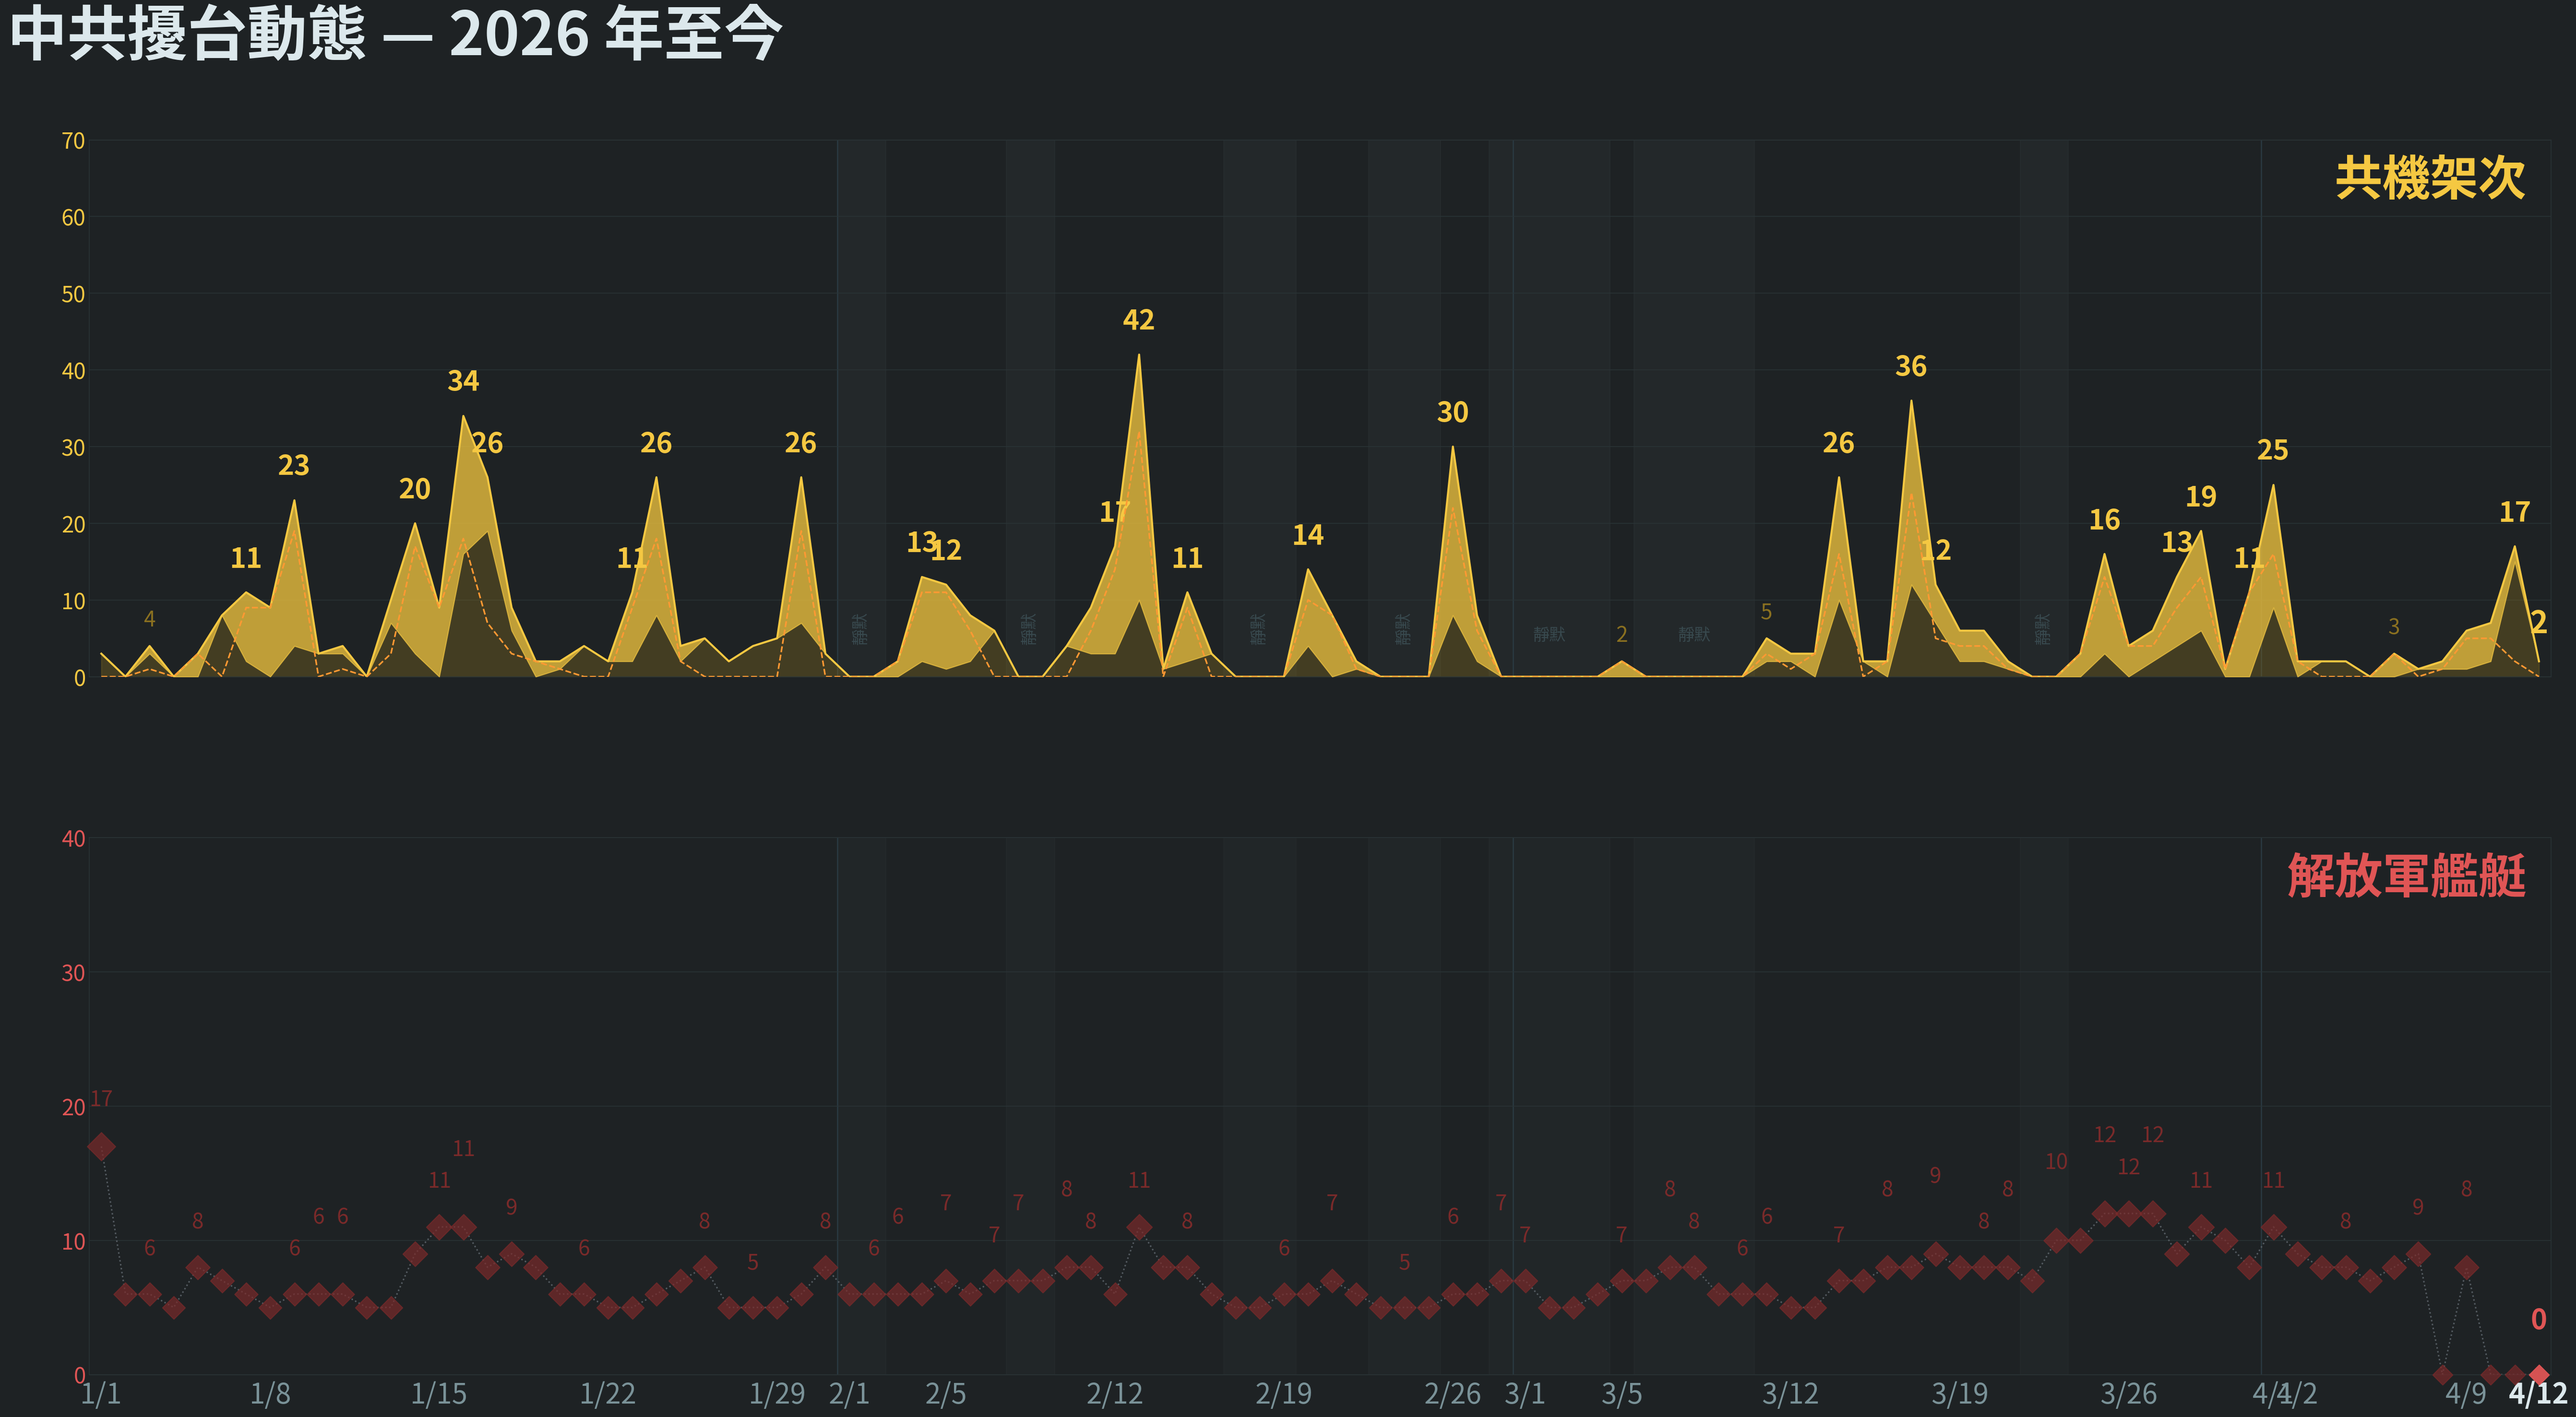
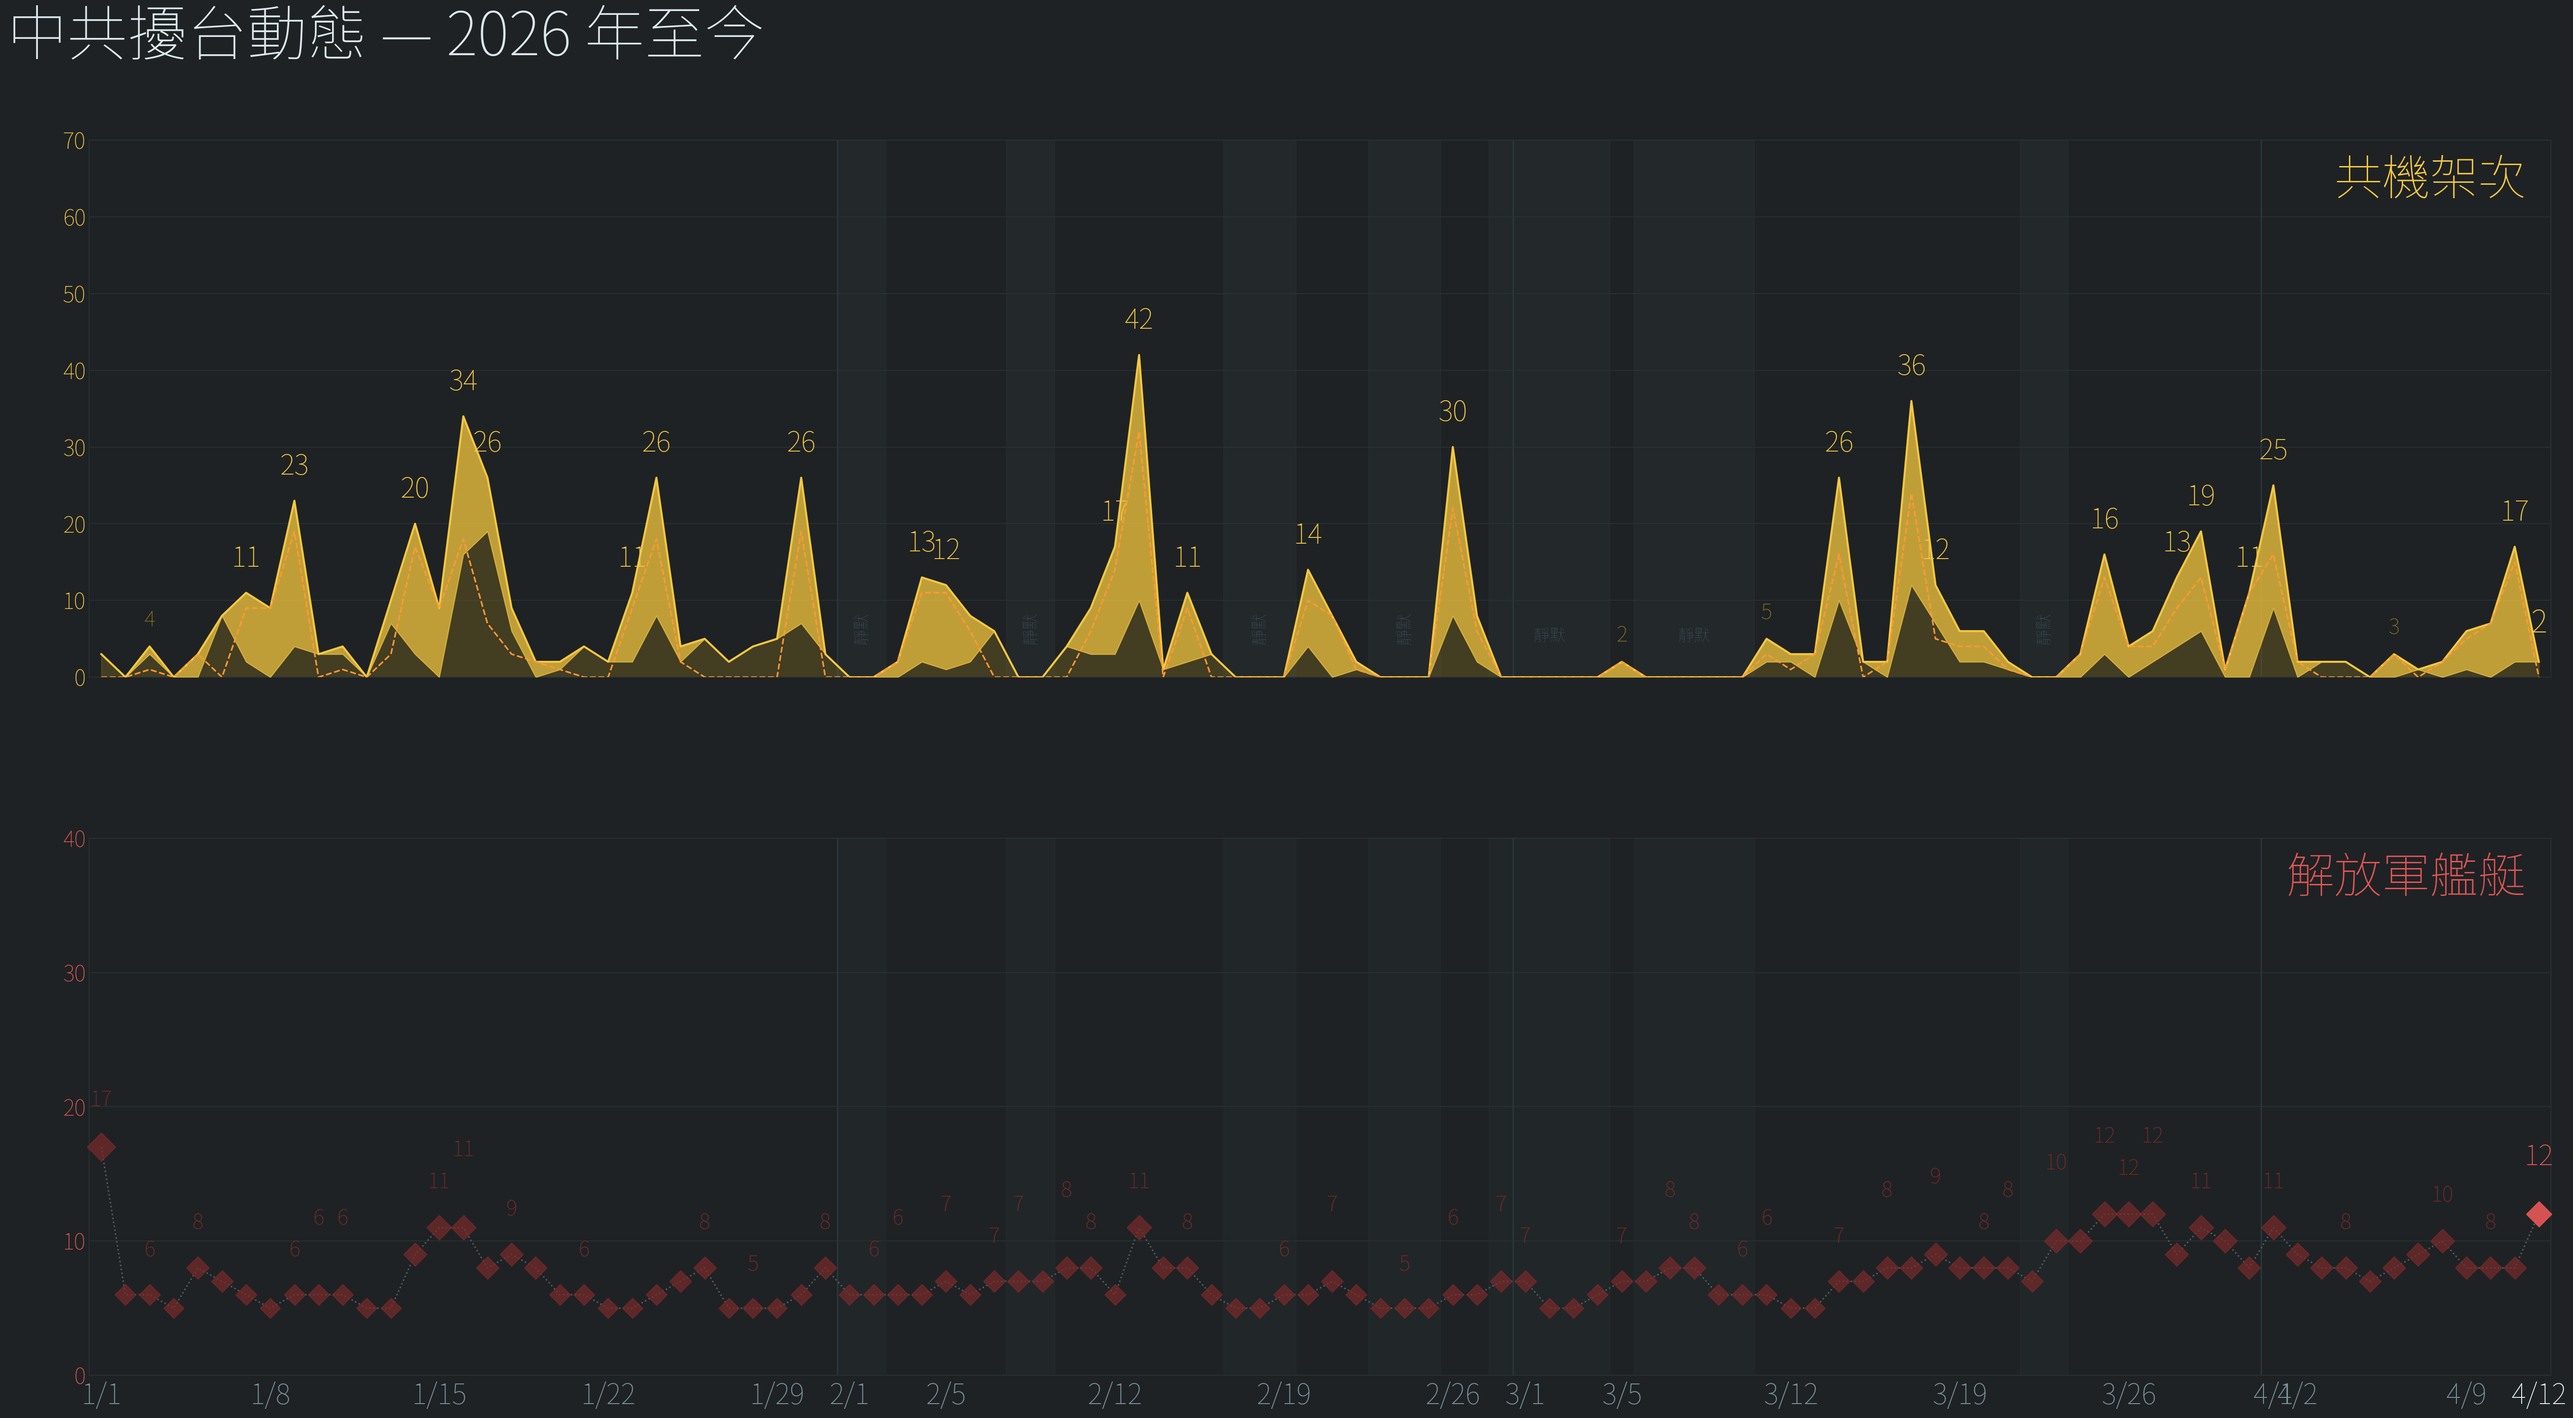
fix: 修正4/8~4/11艦艇及越線數據、補入4/12、移除圖表區obs文字、全粗體
- records.csv: 修正 4/8(ships 0→10,cross 1→2)、4/10(ships 0→8,cross 5→7)、
  4/11(ships 0→8,cross 2→15)、新增 4/12(2架次,12艦艇)
- build_site.py: chart_section 移除 obs 文字顯示
- style.css: chart-header padding 縮小，移除 chart-obs 樣式
- chart_daily.py: 全域 font.weight=bold

diff --git a/records.html b/records.html
@@ -29,25 +29,25 @@
       <td class="num yellow">2</td>
       <td class="num">0</td>
       <td class="num">0%</td>
-      <td><span class="badge mixed">混合</span></td>
-      <td class="num red">0</td>
-      <td class="special-cell"></td>
+      <td><span class="badge manned">有人機</span></td>
+      <td class="num red">12</td>
+      <td class="special-cell">1架次進入東南部空域</td>
     </tr><tr>
       <td>4/11</td>
       <td class="num yellow">17</td>
-      <td class="num">2</td>
-      <td class="num">12%</td>
+      <td class="num">15</td>
+      <td class="num">88%</td>
       <td><span class="badge mixed">混合</span></td>
-      <td class="num red">0</td>
-      <td class="special-cell">轟炸機1架次活動於台灣西南空域，2架次戰機逾越海峽中線</td>
+      <td class="num red">8</td>
+      <td class="special-cell">轟炸機1架次活動於台灣西南空域，逾越中線進入北部及西南部空域</td>
     </tr><tr>
       <td>4/10</td>
       <td class="num yellow">7</td>
-      <td class="num">5</td>
-      <td class="num">71%</td>
+      <td class="num">7</td>
+      <td class="num">100%</td>
       <td><span class="badge manned">有人機</span></td>
-      <td class="num red">0</td>
-      <td class="special-cell"></td>
+      <td class="num red">8</td>
+      <td class="special-cell">逾越中線進入北部及西南部空域</td>
     </tr><tr>
       <td>4/9</td>
       <td class="num yellow">6</td>
@@ -59,11 +59,11 @@
     </tr><tr>
       <td>4/8</td>
       <td class="num yellow">2</td>
-      <td class="num">1</td>
-      <td class="num">50%</td>
+      <td class="num">2</td>
+      <td class="num">100%</td>
       <td><span class="badge mixed">混合</span></td>
-      <td class="num red">0</td>
-      <td class="special-cell">戰機1架次逾越海峽中線</td>
+      <td class="num red">10</td>
+      <td class="special-cell">戰機逾越海峽中線進入北部及東南部空域</td>
     </tr><tr>
       <td>4/7</td>
       <td class="num yellow">1</td>
@@ -375,7 +375,7 @@
       <td class="num">—</td>
       <td><span class="badge zero">零</span></td>
       <td class="num red">7</td>
-      <td class="special-cell">三、中共空飄氣球活動： 
+      <td class="special-cell">三、中共空飄氣球活動： 
 中共空飄氣球計偵獲1顆。</td>
     </tr><tr>
       <td>2/27</td>
@@ -384,7 +384,7 @@
       <td class="num">75%</td>
       <td><span class="badge manned">有人機</span></td>
       <td class="num red">6</td>
-      <td class="special-cell">三、中共空飄氣球活動： 
+      <td class="special-cell">三、中共空飄氣球活動： 
 中共空飄氣球計偵獲2顆。；越線：中部及西南空域</td>
     </tr><tr>
       <td>2/26</td>
@@ -393,7 +393,7 @@
       <td class="num">73%</td>
       <td><span class="badge manned">有人機</span></td>
       <td class="num red">6</td>
-      <td class="special-cell">三、中共空飄氣球活動： 
+      <td class="special-cell">三、中共空飄氣球活動： 
 中共空飄氣球計偵獲2顆。；越線：北部、中部及西南空域</td>
     </tr><tr>
       <td>2/25</td>
@@ -410,7 +410,7 @@
       <td class="num">—</td>
       <td><span class="badge zero">零</span></td>
       <td class="num red">5</td>
-      <td class="special-cell">三、中共空飄氣球活動： 
+      <td class="special-cell">三、中共空飄氣球活動： 
 中共空飄氣球計偵獲2顆。</td>
     </tr><tr>
       <td>2/23</td>
@@ -459,7 +459,7 @@
       <td class="num">—</td>
       <td><span class="badge zero">零</span></td>
       <td class="num red">5</td>
-      <td class="special-cell">三、中共空飄氣球活動： 
+      <td class="special-cell">三、中共空飄氣球活動： 
 中共空飄氣球計偵獲1顆。</td>
     </tr><tr>
       <td>2/17</td>
@@ -468,7 +468,7 @@
       <td class="num">—</td>
       <td><span class="badge zero">零</span></td>
       <td class="num red">5</td>
-      <td class="special-cell">三、中共空飄氣球活動： 
+      <td class="special-cell">三、中共空飄氣球活動： 
 中共空飄氣球計偵獲1顆。</td>
     </tr><tr>
       <td>2/16</td>
@@ -541,7 +541,7 @@
       <td class="num">—</td>
       <td><span class="badge zero">零</span></td>
       <td class="num red">7</td>
-      <td class="special-cell">三、中共空飄氣球活動： 
+      <td class="special-cell">三、中共空飄氣球活動： 
 中共空飄氣球計偵獲1顆。</td>
     </tr><tr>
       <td>2/7</td>
@@ -622,7 +622,7 @@
       <td class="num">0%</td>
       <td><span class="badge manned">有人機</span></td>
       <td class="num red">5</td>
-      <td class="special-cell">三、中共空飄氣球活動： 
+      <td class="special-cell">三、中共空飄氣球活動： 
 中共空飄氣球計偵獲1顆。</td>
     </tr><tr>
       <td>1/28</td>
@@ -631,7 +631,7 @@
       <td class="num">0%</td>
       <td><span class="badge manned">有人機</span></td>
       <td class="num red">5</td>
-      <td class="special-cell">三、中共空飄氣球活動： 
+      <td class="special-cell">三、中共空飄氣球活動： 
 中共空飄氣球計偵獲1顆。</td>
     </tr><tr>
       <td>1/27</td>
@@ -648,7 +648,7 @@
       <td class="num">0%</td>
       <td><span class="badge manned">有人機</span></td>
       <td class="num red">8</td>
-      <td class="special-cell">三、中共空飄氣球活動： 
+      <td class="special-cell">三、中共空飄氣球活動： 
 中共空飄氣球計偵獲1顆。</td>
     </tr><tr>
       <td>1/25</td>
@@ -737,7 +737,7 @@
       <td class="num">100%</td>
       <td><span class="badge manned">有人機</span></td>
       <td class="num red">11</td>
-      <td class="special-cell">三、中共空飄氣球活動： 
+      <td class="special-cell">三、中共空飄氣球活動： 
 中共空飄氣球計偵獲1顆。；越線：北部、西南及東部空域</td>
     </tr><tr>
       <td>1/14</td>
@@ -762,7 +762,7 @@
       <td class="num">—</td>
       <td><span class="badge zero">零</span></td>
       <td class="num red">5</td>
-      <td class="special-cell">四、中共空飄氣球活動： 
+      <td class="special-cell">四、中共空飄氣球活動： 
 中共空飄氣球計偵獲4顆。</td>
     </tr><tr>
       <td>1/11</td>
@@ -803,7 +803,7 @@
       <td class="num">82%</td>
       <td><span class="badge manned">有人機</span></td>
       <td class="num red">6</td>
-      <td class="special-cell">三、中共空飄氣球活動： 
+      <td class="special-cell">三、中共空飄氣球活動： 
 中共空飄氣球計偵獲1顆。；越線：北部及西南部空域</td>
     </tr><tr>
       <td>1/6</td>
@@ -812,7 +812,7 @@
       <td class="num">0%</td>
       <td><span class="badge manned">有人機</span></td>
       <td class="num red">7</td>
-      <td class="special-cell">三、中共空飄氣球活動： 
+      <td class="special-cell">三、中共空飄氣球活動： 
 中共空飄氣球計偵獲2顆。</td>
     </tr><tr>
       <td>1/5</td>
@@ -821,7 +821,7 @@
       <td class="num">100%</td>
       <td><span class="badge manned">有人機</span></td>
       <td class="num red">8</td>
-      <td class="special-cell">三、中共空飄氣球活動： 
+      <td class="special-cell">三、中共空飄氣球活動： 
 中共空飄氣球計偵獲2顆。</td>
     </tr><tr>
       <td>1/4</td>
@@ -830,7 +830,7 @@
       <td class="num">—</td>
       <td><span class="badge zero">零</span></td>
       <td class="num red">5</td>
-      <td class="special-cell">四、中共空飄氣球活動： 
+      <td class="special-cell">四、中共空飄氣球活動： 
 中共空飄氣球計偵獲1顆。</td>
     </tr><tr>
       <td>1/3</td>
@@ -839,7 +839,7 @@
       <td class="num">25%</td>
       <td><span class="badge manned">有人機</span></td>
       <td class="num red">6</td>
-      <td class="special-cell">三、中共空飄氣球活動： 
+      <td class="special-cell">三、中共空飄氣球活動： 
 中共空飄氣球計偵獲1顆。；越線：中部空域</td>
     </tr><tr>
       <td>1/2</td>
@@ -848,7 +848,7 @@
       <td class="num">—</td>
       <td><span class="badge zero">零</span></td>
       <td class="num red">6</td>
-      <td class="special-cell">四、中共空飄氣球活動： 
+      <td class="special-cell">四、中共空飄氣球活動： 
 中共空飄氣球計偵獲2顆。</td>
     </tr><tr>
       <td>1/1</td>
@@ -857,7 +857,7 @@
       <td class="num">0%</td>
       <td><span class="badge manned">有人機</span></td>
       <td class="num red">17</td>
-      <td class="special-cell">三、中共空飄氣球活動： 
+      <td class="special-cell">三、中共空飄氣球活動： 
 中共空飄氣球計偵獲2顆。</td>
     </tr></tbody>
   </table>

diff --git a/index.html b/index.html
@@ -22,10 +22,10 @@
 </header>
 
 <main>
-  
+  <div class='alert'>⚡ 1架次進入東南部空域</div>
 
   <div class="sitrep">
-    <div class="sitrep-label">SITREP &nbsp;·&nbsp; 4/12 &nbsp;·&nbsp; <span class="badge mixed">混合</span></div>
+    <div class="sitrep-label">SITREP &nbsp;·&nbsp; 4/12 &nbsp;·&nbsp; <span class="badge manned">有人機</span></div>
     <div class="stats-row">
       <div class="stat">
         <div class="stat-n y">2</div>
@@ -38,22 +38,22 @@
         <div class="stat-detail">0%</div>
       </div>
       <div class="stat">
-        <div class="stat-n r">0</div>
+        <div class="stat-n r">12</div>
         <div class="stat-l">解放軍艦艇</div>
-        
+        <span class="delta-up">▲4</span>
       </div>
     </div>
   </div>
 
     <section class="chart-section">
     <div class="chart-header">
-      <span class="chart-title">今日觀察</span><span class="chart-obs">今日 2 架次　0 艘艦艇</span>
+      <span class="chart-title">今日觀察</span>
     </div>
     <img class="chart-img" src="charts/split_2026-04-12.png" alt="今日觀察">
   </section>
     <section class="chart-section">
     <div class="chart-header">
-      <span class="chart-title">近期趨勢</span><span class="chart-obs">本月峰值 25 架次（4/1）　艦艇 0–17 艘</span>
+      <span class="chart-title">近期趨勢</span>
     </div>
     <img class="chart-img" src="charts/streak_2026-04-12.png" alt="近期趨勢">
   </section>

diff --git a/style.css b/style.css
@@ -167,14 +167,13 @@ main{max-width:960px;margin:0 auto;padding:1.75rem 1.5rem}
 }
 .chart-header{
   display:flex;align-items:baseline;flex-wrap:wrap;
-  gap:.4rem .9rem;margin-bottom:1rem;
-  padding-bottom:.75rem;border-bottom:1px solid var(--bdr);
+  gap:.4rem .9rem;margin-bottom:.6rem;
+  padding-bottom:.5rem;border-bottom:1px solid var(--bdr);
 }
 .chart-title{
   font-size:.72rem;font-weight:800;text-transform:uppercase;
   letter-spacing:.16em;color:var(--sub2);white-space:nowrap;
 }
-.chart-obs{font-size:.95rem;color:var(--y);font-weight:600}
 .chart-img{
   display:block;width:100%;height:auto;
   border-radius:6px;

diff --git a/scripts/build_site.py b/scripts/build_site.py
@@ -215,12 +215,11 @@ def footer_html(update_label):
 
 
 def chart_section(title, img_path, obs=''):
-    obs_html = f'<span class="chart-obs">{obs}</span>' if obs else ''
     inner = (f'<img class="chart-img" src="{img_path}" alt="{title}">'
              if img_path else '<div class="chart-missing">（圖表尚未產生）</div>')
     return f"""  <section class="chart-section">
     <div class="chart-header">
-      <span class="chart-title">{title}</span>{obs_html}
+      <span class="chart-title">{title}</span>
     </div>
     {inner}
   </section>"""

diff --git a/scripts/chart_daily.py b/scripts/chart_daily.py
@@ -71,6 +71,7 @@ def get_font():
 
 FONT = get_font()
 plt.rcParams['font.family'] = FONT
+plt.rcParams['font.weight'] = 'bold'
 plt.rcParams['axes.unicode_minus'] = False
 
 
